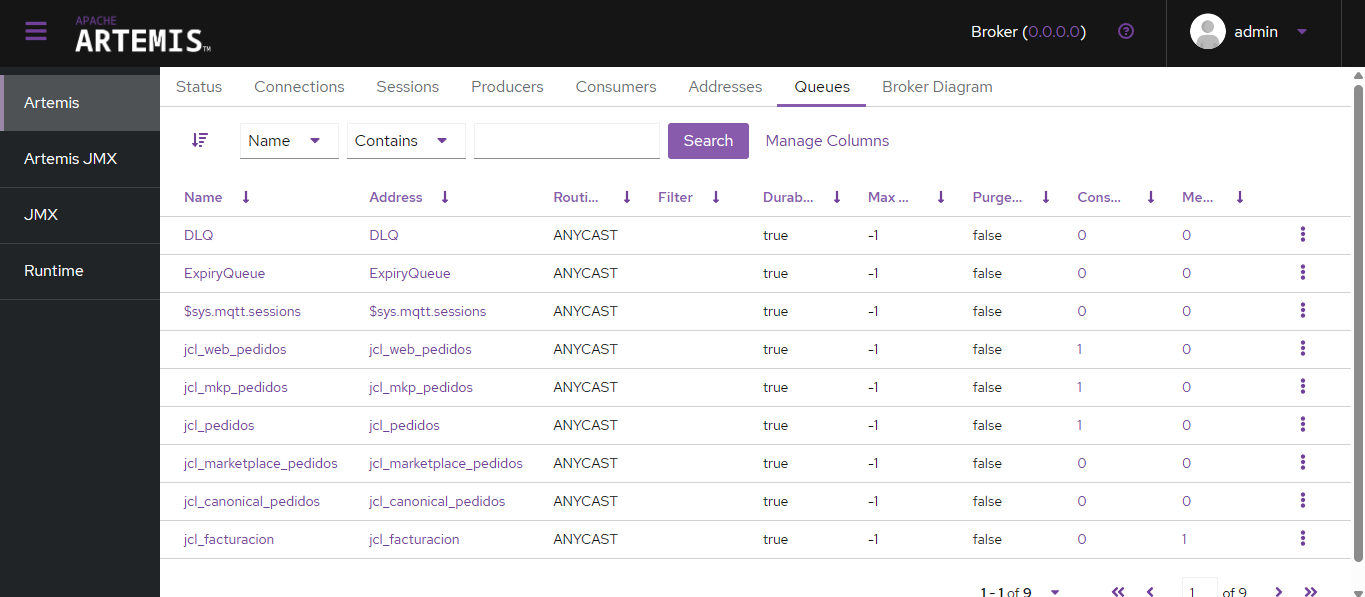
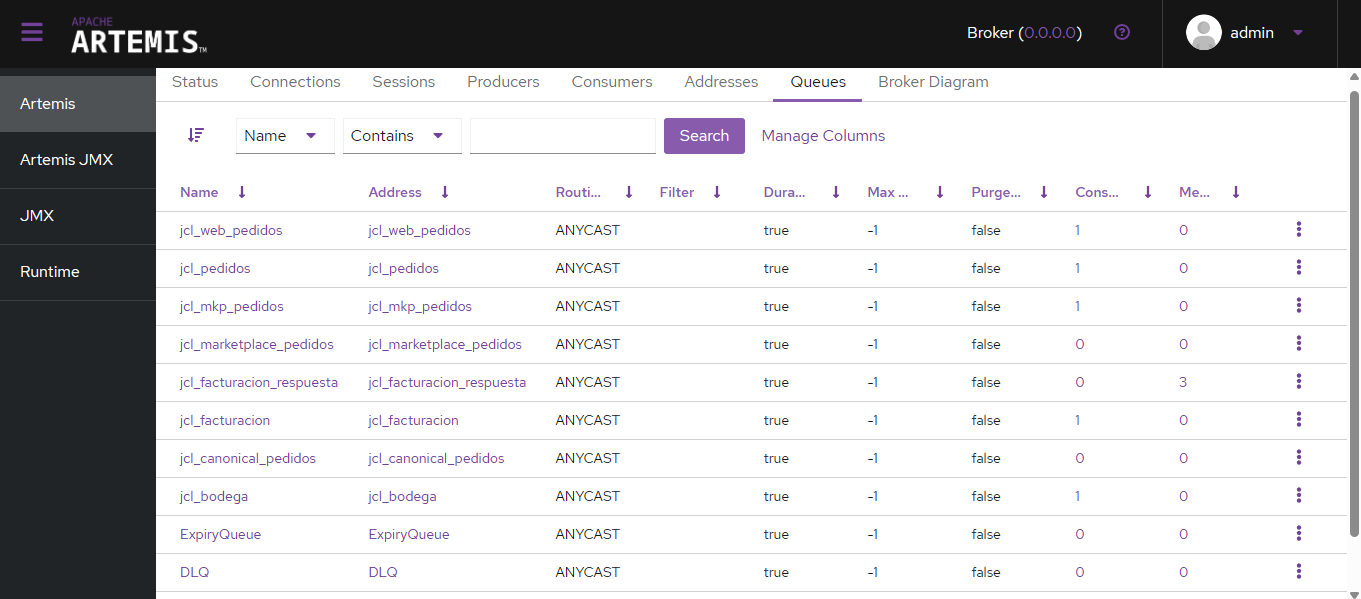
chore(marketplace-adapter): update pom (SLF4J + compiler), add QueueViewer, improve adapter logs; ignore build artifacts

diff --git a/marketplace-adapter/src/main/java/cl/jclavijo/MarketplaceAdapter.java b/marketplace-adapter/src/main/java/cl/jclavijo/MarketplaceAdapter.java
@@ -4,7 +4,12 @@ import com.google.gson.Gson;
 import com.google.gson.JsonArray;
 import com.google.gson.JsonObject;
 import com.google.gson.JsonParser;
-import jakarta.jms.*;
+import jakarta.jms.Connection;
+import jakarta.jms.ConnectionFactory;
+import jakarta.jms.Destination;
+import jakarta.jms.MessageProducer;
+import jakarta.jms.Session;
+import jakarta.jms.TextMessage;
 import org.apache.activemq.artemis.jms.client.ActiveMQConnectionFactory;
 
 import java.net.URI;
@@ -14,18 +19,20 @@ import java.net.http.HttpResponse;
 
 public class MarketplaceAdapter {
 
-    // Configuración de la cola y el broker
     private static final String BROKER_URL = "tcp://localhost:61616";
     private static final String QUEUE_NAME = "jcl_mkp_pedidos";
 
     public static void main(String[] args) {
         try {
-            // 1. Consumir los pedidos del Marketplace (REST)
+            // 1. Consumir los pedidos del Marketplace
             String ordersJson = getRequest("http://localhost:8091/orders/today");
             JsonArray orders = JsonParser.parseString(ordersJson).getAsJsonArray();
 
-            // 2. Preparar conexión a Artemis
+            System.out.println("[INFO] Pedidos recibidos del Marketplace: " + orders.size());
+
+            // 2. Conexión a Artemis
             ConnectionFactory cf = new ActiveMQConnectionFactory(BROKER_URL);
+
             try (Connection connection = cf.createConnection();
                  Session session = connection.createSession(Session.AUTO_ACKNOWLEDGE)) {
 
@@ -33,38 +40,62 @@ public class MarketplaceAdapter {
                 MessageProducer producer = session.createProducer(destination);
                 Gson gson = new Gson();
 
-                System.out.println("Procesando " + orders.size() + " pedidos...");
-
+                // 3. Procesar cada pedido
                 for (int i = 0; i < orders.size(); i++) {
                     JsonObject order = orders.get(i).getAsJsonObject();
                     String id = order.get("id").getAsString();
 
-                    // 3. Patrón CONTENT ENRICHER: Consultar costo de envío por cada ID
-                    System.out.println("Enriqueciendo pedido ID: " + id);
-                    String shippingJson = getRequest("http://localhost:8091/orders/" + id + "/shipping-cost");
-                    JsonObject shippingInfo = JsonParser.parseString(shippingJson).getAsJsonObject();
+                    System.out.println("[INFO] Procesando Pedido ID: " + id);
 
-                    // Agregamos el costo de envío al objeto original
-                    order.addProperty("costoEnvio", shippingInfo.get("costoEnvio").getAsInt());
-                    order.addProperty("monedaEnvio", shippingInfo.get("moneda").getAsString());
+                    // Content Enricher: obtener costo de envío
+                    System.out.println("[INFO] Aplicando Content Enricher: Consultando costo de envío para ID: " + id);
+
+                    try {
+                        String shippingJson = getRequest("http://localhost:8091/orders/" + id + "/shipping-cost");
+                        JsonObject shippingInfo = JsonParser.parseString(shippingJson).getAsJsonObject();
+
+                        int costo = shippingInfo.has("costoEnvio") ? shippingInfo.get("costoEnvio").getAsInt() : 0;
+                        String moneda = shippingInfo.has("moneda") ? shippingInfo.get("moneda").getAsString() : "CLP";
+
+                        order.addProperty("costoEnvio", costo);
+                        order.addProperty("monedaEnvio", moneda);
+
+                        System.out.println("[INFO] Costo obtenido: " + costo + " " + moneda);
+                    } catch (Exception ex) {
+                        System.out.println("[WARN] No se pudo obtener el costo de envío para ID: " + id + " -> " + ex.getMessage());
+                        order.addProperty("costoEnvio", 0);
+                        order.addProperty("monedaEnvio", "CLP");
+                    }
 
                     // 4. Enviar a la cola Artemis
                     TextMessage message = session.createTextMessage(gson.toJson(order));
                     producer.send(message);
-                    System.out.println("Enviado a " + QUEUE_NAME + ": " + id);
+
+                    System.out.println("[INFO] Enviado a " + QUEUE_NAME + ": " + id);
                 }
             }
 
         } catch (Exception e) {
+            System.out.println("[ERROR] Error en MarketplaceAdapter:");
             e.printStackTrace();
         }
     }
 
-    // Método auxiliar para hacer peticiones GET a los servicios REST
     private static String getRequest(String url) throws Exception {
         HttpClient client = HttpClient.newHttpClient();
-        HttpRequest request = HttpRequest.newBuilder().uri(URI.create(url)).build();
+        HttpRequest request = HttpRequest.newBuilder()
+                .uri(URI.create(url))
+                .GET()
+                .build();
+
         HttpResponse<String> response = client.send(request, HttpResponse.BodyHandlers.ofString());
-        return response.body();
+
+        if (response.statusCode() >= 200 && response.statusCode() < 300) {
+            return response.body();
+        } else {
+            throw new RuntimeException(
+                    "GET " + url + " returned status " + response.statusCode() + " - body: " + response.body()
+            );
+        }
     }
 }

diff --git a/marketplace-adapter/src/main/java/cl/jclavijo/QueueViewer.java b/marketplace-adapter/src/main/java/cl/jclavijo/QueueViewer.java
@@ -1,0 +1,40 @@
+package cl.jclavijo;
+
+import jakarta.jms.Connection;
+import jakarta.jms.ConnectionFactory;
+import jakarta.jms.Message;
+import jakarta.jms.Session;
+import jakarta.jms.TextMessage;
+import jakarta.jms.Destination;
+import jakarta.jms.MessageConsumer;
+import org.apache.activemq.artemis.jms.client.ActiveMQConnectionFactory;
+
+public class QueueViewer {
+    private static final String BROKER_URL = "tcp://localhost:61616";
+    private static final String QUEUE_NAME = "jcl_mkp_pedidos";
+
+    public static void main(String[] args) {
+        ConnectionFactory cf = new ActiveMQConnectionFactory(BROKER_URL);
+        try (Connection connection = cf.createConnection()) {
+            connection.start();
+            try (Session session = connection.createSession(Session.AUTO_ACKNOWLEDGE)) {
+                Destination dest = session.createQueue(QUEUE_NAME);
+                MessageConsumer consumer = session.createConsumer(dest);
+                System.out.println("[INFO] Esperando mensaje en " + QUEUE_NAME + " (timeout 5s)...");
+                Message msg = consumer.receive(5000);
+                if (msg == null) {
+                    System.out.println("[INFO] No hay mensajes en la cola.");
+                } else if (msg instanceof TextMessage) {
+                    String body = ((TextMessage) msg).getText();
+                    System.out.println("[INFO] Mensaje recibido:");
+                    System.out.println(body);
+                } else {
+                    System.out.println("[WARN] Mensaje recibido de tipo inesperado: " + msg.getClass());
+                }
+            }
+        } catch (Exception e) {
+            System.out.println("[ERROR] Error en QueueViewer:");
+            e.printStackTrace();
+        }
+    }
+}